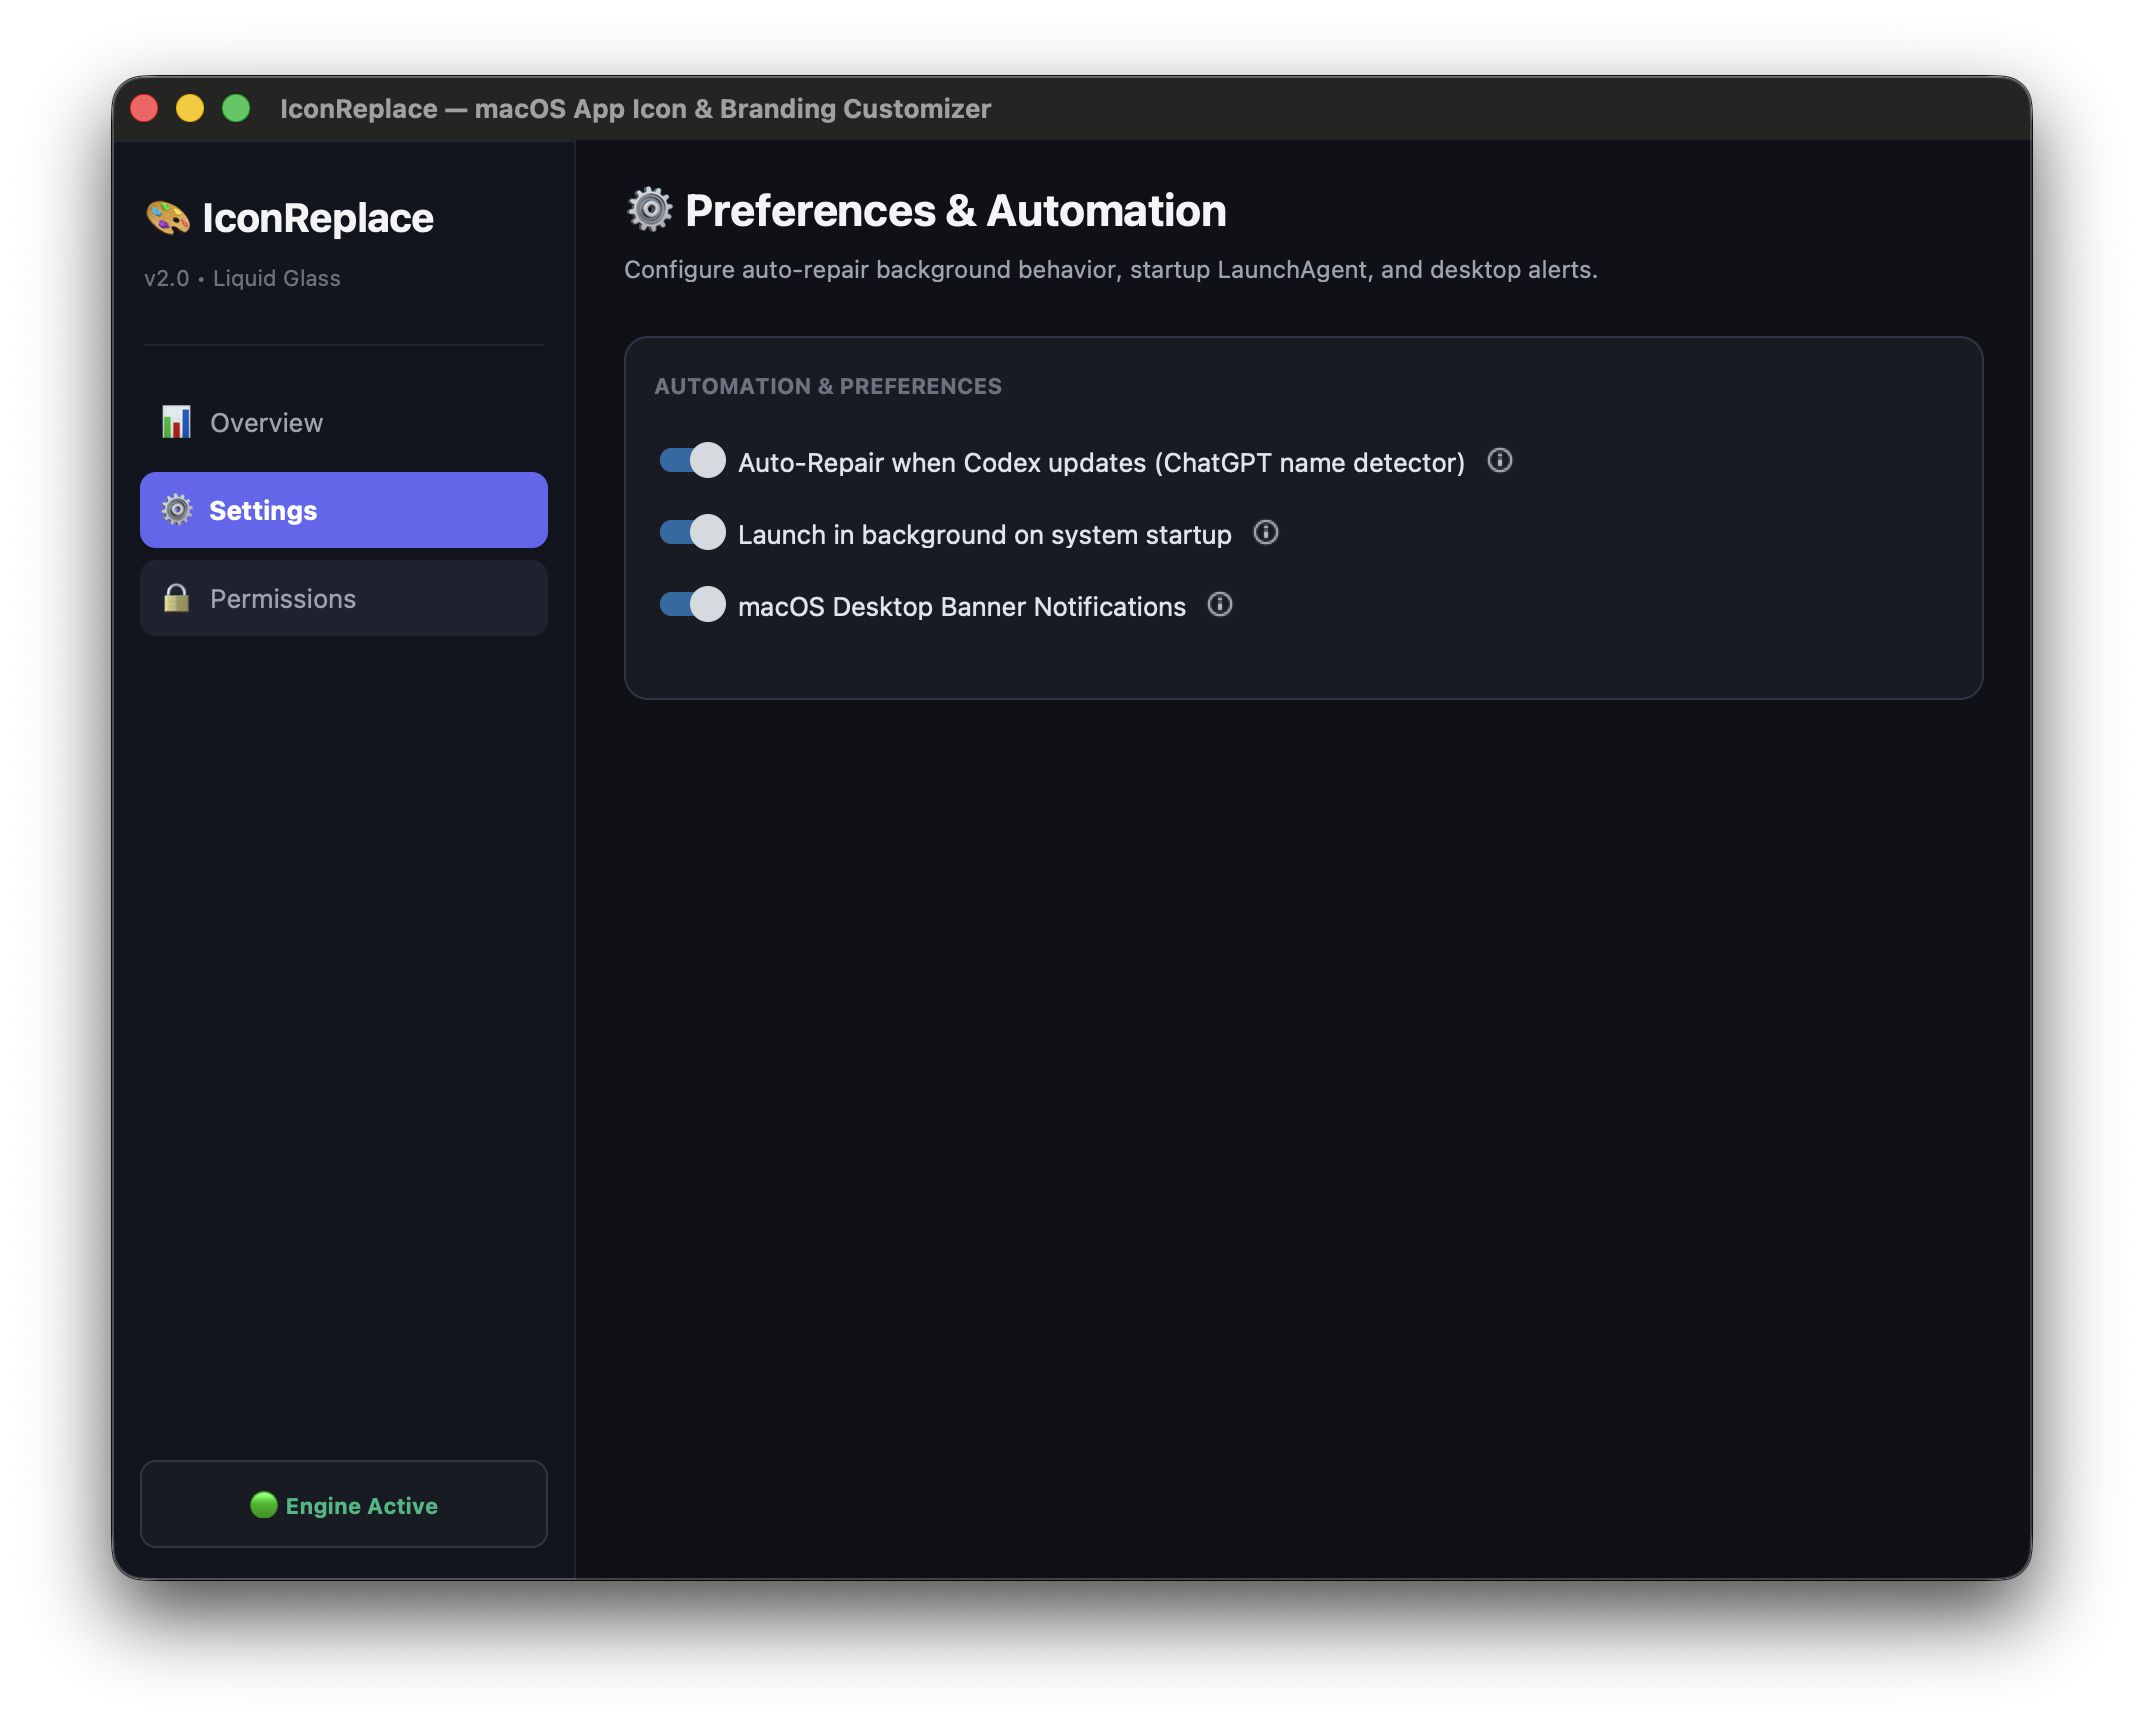
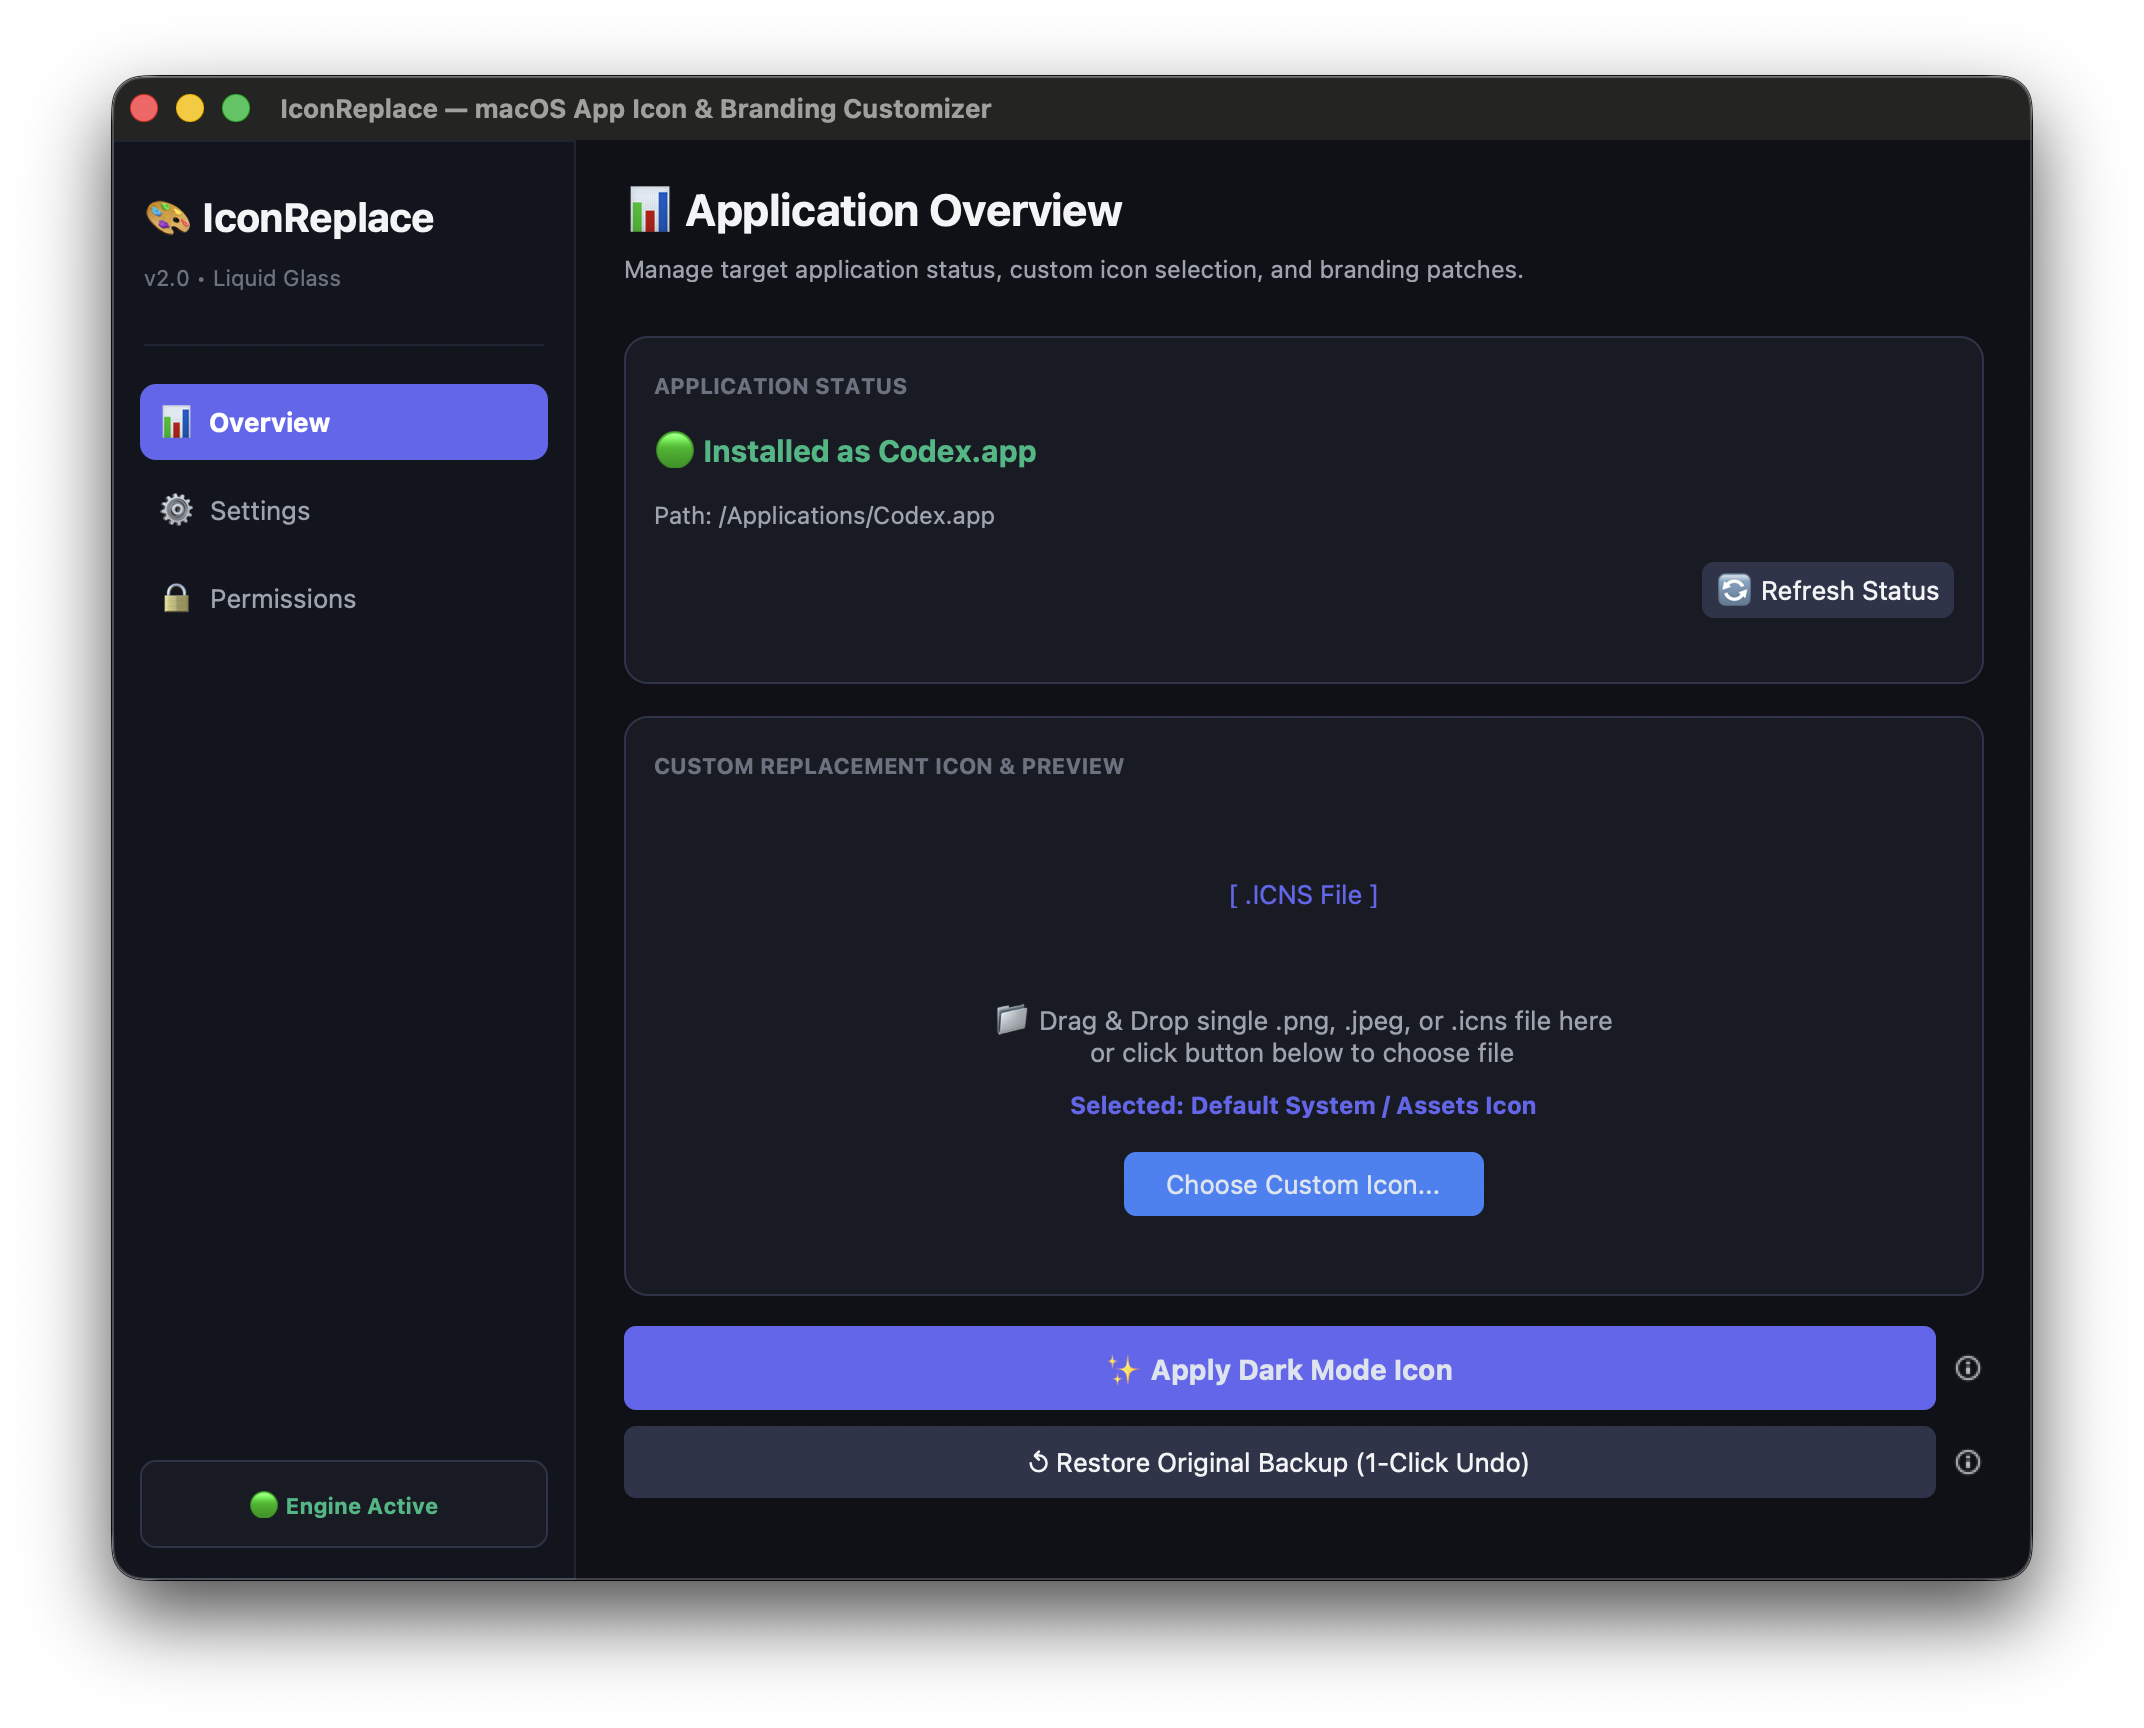
feat: add test notification button and humanize docs

diff --git a/app/src/gui.py b/app/src/gui.py
@@ -29,7 +29,7 @@ except ImportError:
     from tkinter import filedialog, messagebox
     HAS_CUSTOMTKINTER = False
 
-from app_watcher import AppUpdateWatcher
+from app_watcher import AppUpdateWatcher, send_macos_notification
 from backup_registry import BackupRegistry
 from icon_engine import patch_app_icon
 from launchd_manager import LaunchAgentManager
@@ -681,6 +681,25 @@ class IconReplaceGUI:
             HoverTooltip(info_notify, t_notify)
             HoverTooltip(self.sw_notify, t_notify)
 
+            # Test Notification Button
+            row_test_notify = ctk.CTkFrame(self.settings_card, fg_color="transparent")
+            row_test_notify.pack(anchor="w", padx=15, pady=(0, 10), fill="x")
+
+            self.btn_test_notify = ctk.CTkButton(
+                row_test_notify,
+                text="🔔 Test Notification",
+                width=160,
+                height=28,
+                fg_color="#2E344A",
+                hover_color="#3D4461",
+                text_color="#F3F4F6",
+                font=ctk.CTkFont(size=12),
+                command=self._on_test_notification,
+            )
+            self.btn_test_notify.pack(side="left")
+            t_test_notify = "Spawns a test macOS banner notification to verify system alert delivery."
+            HoverTooltip(self.btn_test_notify, t_test_notify)
+
     def _build_permission_card(self, parent) -> None:
         """Permission status card and open System Settings helper."""
         if HAS_CUSTOMTKINTER:
@@ -948,6 +967,12 @@ class IconReplaceGUI:
         val = bool(self.sw_notify.get())
         self.watcher.notifications_enabled = val
         logger.info("Set notifications enabled: %s", val)
+
+    def _on_test_notification(self) -> None:
+        """Trigger a test macOS notification banner."""
+        if not send_macos_notification("IconReplace", "Notification test successful!"):
+            os.system("osascript -e 'display notification \"Notification test successful!\" with title \"IconReplace\"'")
+        logger.info("Triggered test notification banner")
 
     def run(self) -> None:
         """Runs the main GUI event loop."""

diff --git a/README.md b/README.md
@@ -1,114 +1,103 @@
 # IconReplace
 
-> Native macOS application icon and branding management utility with automated update persistence and backup verification.
+> Native macOS application icon management utility with automated update persistence and backup verification.
 
 ![IconReplace UI](docs/assets/screenshot.png)
 
-## Overview
+## What it does
 
-**IconReplace** is a specialized macOS utility built with PySide6/CustomTkinter and native macOS system integrations. It enables developers and power users to replace application icons and bundle branding across macOS system and third-party applications. 
+IconReplace changes macOS application icons and keeps them modified. 
 
-To counteract automated application updates that overwrite custom resources, IconReplace configures lightweight `launchd` kernel file watchers (`WatchPaths`) that automatically re-apply custom icon sets upon file modification with zero persistent CPU or memory overhead.
+When macOS apps auto-update, system updaters routinely overwrite custom `.icns` files inside `/Applications`. IconReplace prevents icon reversion by setting up lightweight `launchd` kernel file watchers (`WatchPaths`). When an app update overwrites your icon, the background LaunchAgent catches the file change and re-applies your custom icon automatically. It uses zero background CPU or RAM while idling.
 
----
+## Features
 
-## Key Features
+- **Dark Mode UI**: CustomTkinter desktop interface built specifically for dark mode on macOS Big Sur through Sequoia.
+- **Update Protection**: Registers a native `launchd` service that monitors target bundles in `/Applications` and re-applies custom icons instantly after updates.
+- **Zero Overhead**: Relies on system file events. The watcher uses no persistent CPU or memory when waiting.
+- **Automatic Backups**: Saves SHA-256 verified copies of stock `.icns` assets to `~/.iconreplace_backups/` before making changes.
+- **One-Click Restoration**: Reverts patched application bundles back to factory icons and clears cached assets.
+- **Cache Flushing**: Touches app bundles and runs macOS `lsregister` cache resets to refresh Dock icons without requiring a log out or reboot.
+- **Test Banners**: Includes a built-in notification test button in Settings to verify macOS desktop alert delivery.
 
-- **Liquid Glass Interface**: High-DPI dark-mode user interface designed for macOS Sonoma and Sequoia.
-- **Automated Update Persistence**: Registers a native macOS `launchd` LaunchAgent that monitors target application bundles in `/Applications` and re-applies custom icon sets instantly upon app updates.
-- **Zero-Overhead Daemon**: Uses kernel file system event notifications (`WatchPaths`); consumes 0% background CPU and 0 MB RAM when idle.
-- **Automated Resource Backup**: Pre-modification verification creates checksum-verified backups of original `.icns` resources in `~/.iconreplace_backups/` before applying patches.
-- **Instant Rollback**: One-click restoration of stock bundle assets and icon caches.
-- **Cache Management**: Automatically triggers `touch` on application bundles and resets macOS `dockutil` / `lsregister` caches for immediate Dock visual refresh without system reboot.
+## Requirements and Compatibility
 
----
+- **macOS Version**: macOS 11.0 Big Sur or newer (tested on macOS 14 Sonoma and macOS 15 Sequoia).
+- **Hardware**: Apple Silicon (M1/M2/M3/M4) and Intel Macs.
+- **System Permissions**: App Management or Full Disk Access permissions are needed to modify `.app` bundles in `/Applications`.
 
-## Architecture & System Requirements
+## Project Layout
 
-### Platform Support
-- **Operating System**: macOS 11.0 Big Sur through macOS 15+ Sequoia
-- **Architecture**: Apple Silicon (M1/M2/M3/M4) and Intel x86_64
-- **Permissions**: Requires macOS App Management or Full Disk Access permissions for `/Applications` bundle modifications.
-
-### Repository Structure
 ```
 Codex-IconReplace/
 ├── app/
 │   ├── src/
-│   │   ├── main.py              # CLI & GUI Application Entrypoint
-│   │   ├── gui.py               # CustomTkinter / Liquid Glass UI Architecture
-│   │   ├── icon_engine.py       # Core ICNS Manipulation & Dock Cache Management
-│   │   ├── app_watcher.py       # Event Monitoring & LaunchAgent Dispatch
-│   │   ├── launchd_manager.py   # System LaunchAgent Registration (.plist)
-│   │   └── backup_registry.py   # Checksum & Backup Management
+│   │   ├── main.py              # CLI and GUI entry point
+│   │   ├── gui.py               # CustomTkinter interface
+│   │   ├── icon_engine.py       # ICNS patching and Dock cache resets
+│   │   ├── app_watcher.py       # Event monitoring and macOS notifications
+│   │   ├── launchd_manager.py   # LaunchAgent plist creation and registration
+│   │   └── backup_registry.py   # Checksum and backup management
 │   ├── scripts/
-│   │   ├── build_app.sh         # PyInstaller Standalone Application Builder
-│   │   └── create_icns.py       # PNG-to-ICNS Converter Script
-│   └── tests/                   # Automated Unit Test Suite
+│   │   ├── build_app.sh         # PyInstaller build script
+│   │   └── create_icns.py       # PNG-to-ICNS converter utility
+│   └── tests/                   # Automated unit tests
 ├── docs/assets/
-│   └── screenshot.png           # High-DPI Interface Screenshot
-├── IconReplace.spec             # PyInstaller Packaging Specification
+│   └── screenshot.png           # Interface screenshot
+├── IconReplace.spec             # PyInstaller packaging configuration
 └── README.md
 ```
 
----
+## Running IconReplace
 
-## Installation & Usage
-
-### 1. Running the Standalone Application
-If built using PyInstaller, execute the compiled macOS application bundle:
+### Using the Pre-built App
+Launch the standalone `.app` bundle:
 ```bash
 open IconReplace.app
 ```
 
-### 2. Running from Source
-Ensure Python 3.10+ and required dependencies are installed:
+### Running from Source
+Requires Python 3.10 or newer. Install dependencies and start the app:
 ```bash
 pip install -r app/requirements.txt
 PYTHONPATH=app/src python3 app/src/main.py
 ```
 
-### 3. Command Line Interface (CLI)
-IconReplace supports headless operation for automated workflows and scripting:
+### CLI Mode
+You can also run IconReplace headless from the terminal:
 
 ```bash
-# Apply custom icon patch to target application
+# Patch an application icon
 python3 app/src/main.py --patch --app "/Applications/Xcode.app" --icon "custom_icon.icns"
 
-# Enable background launchd update protection
+# Enable background launchd watcher
 python3 app/src/main.py --enable-watcher
 
-# Restore original stock icon from backup
+# Restore stock icon from backup
 python3 app/src/main.py --restore --app "/Applications/Xcode.app"
 
-# Display application status and backup registry
+# Print status and backup registry
 python3 app/src/main.py --status
 ```
 
----
+## Building the App
 
-## Building Standalone Application Bundle
-
-To package IconReplace into a standalone macOS `.app` bundle using PyInstaller:
+To compile a standalone macOS `.app` bundle with PyInstaller, run:
 
 ```bash
 chmod +x app/scripts/build_app.sh
 ./app/scripts/build_app.sh
 ```
-The compiled application bundle will be generated at `./IconReplace.app`.
+The output app bundle will appear at `./IconReplace.app`.
 
----
+## Testing
 
-## Testing & Verification
-
-Run the automated test suite to verify core icon manipulation, backup registry integrity, and launchd configuration generators:
+Run the unittest test suite to verify icon engine operations, backup registry checks, and LaunchAgent plist generation:
 
 ```bash
 python3 -m unittest discover -s app/tests -p "test_*.py"
 ```
 
----
-
 ## License
 
-Distributed under the MIT License. See [LICENSE](app/LICENSE) for complete terms.
+Distributed under the MIT License. See [LICENSE](app/LICENSE) for details.
